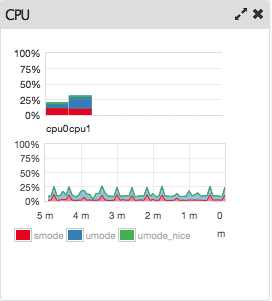
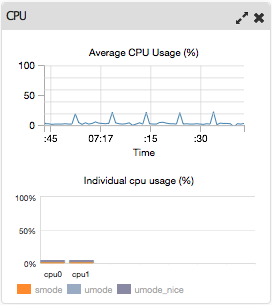
Dashboard documentation
Updated dashboard gif and cpu widget gif
Added top shares widget section

Changed region(s): [[0.0, 0.0, 1.0, 1.0], [0.1765, 0.1495, 0.7941, 0.2093]]

diff --git a/dashboard.rst b/dashboard.rst
@@ -27,11 +27,9 @@ CPU Widget
 ^^^^^^^^^^
 
 The CPU widget displays the cpu usage of the appliance and is updated every
-second. The widget display is divided into two parts. The top graph displays
-the percent of time spent in system mode, user mode, and user mode nice, for
-each cpu, for the current time interval. The bottom graph displays the
-percentage of average time spent in each mode over all cpus, over the last 5
-minutes.
+second. The top graph of the cpu widget displays the average cpu usage of the
+appliance, and the bottom graph displays the percent of time spent in system
+mode, user more and user mode nice, for each cpu, for the current time interval.
 
 .. image:: cpu-widget.png
    :align: center
@@ -57,3 +55,14 @@ The network activity widget displays data sent/received, and packets sent/receiv
 
 .. image:: network-widget.png
    :align: center
+
+Top Shares Widget
+^^^^^^^^^^^^^^^^^
+
+The top shares widget displays the top 5 shares sorted by percentage of space
+used, and the used space and total size of each.
+Additional details about each share are shown while hovering over the share.
+
+.. image:: top-shares-widget.png
+   :align: center
+
